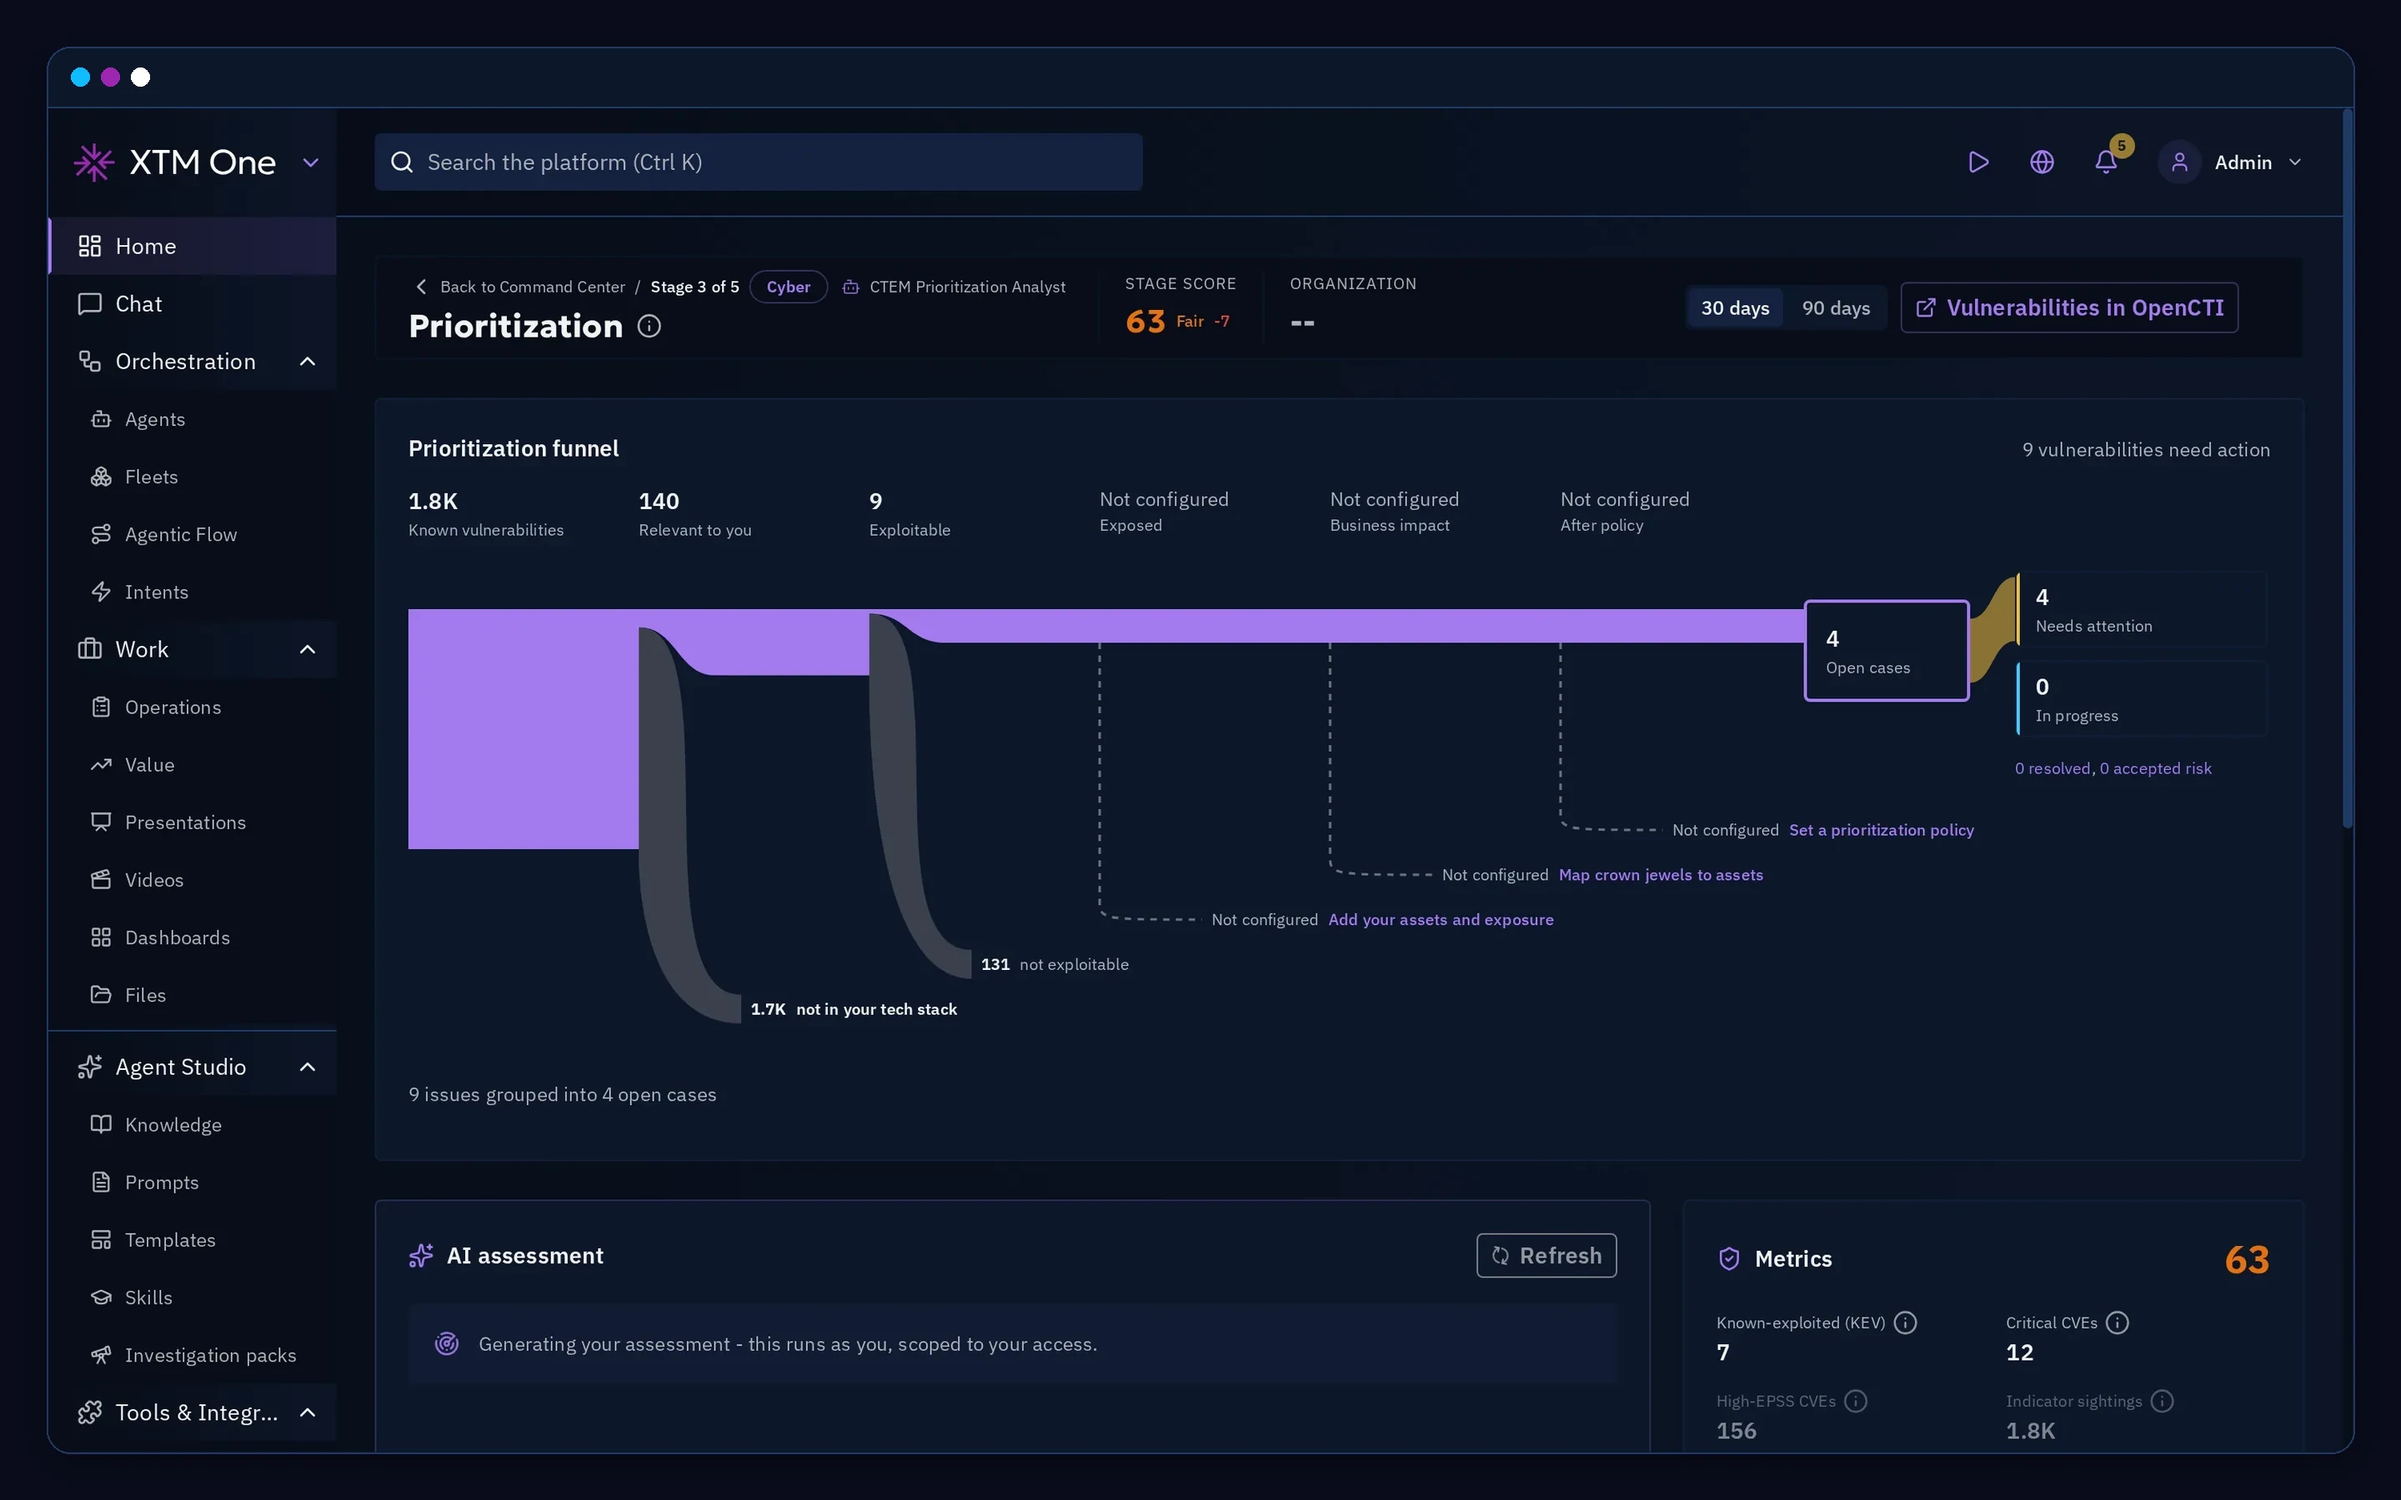
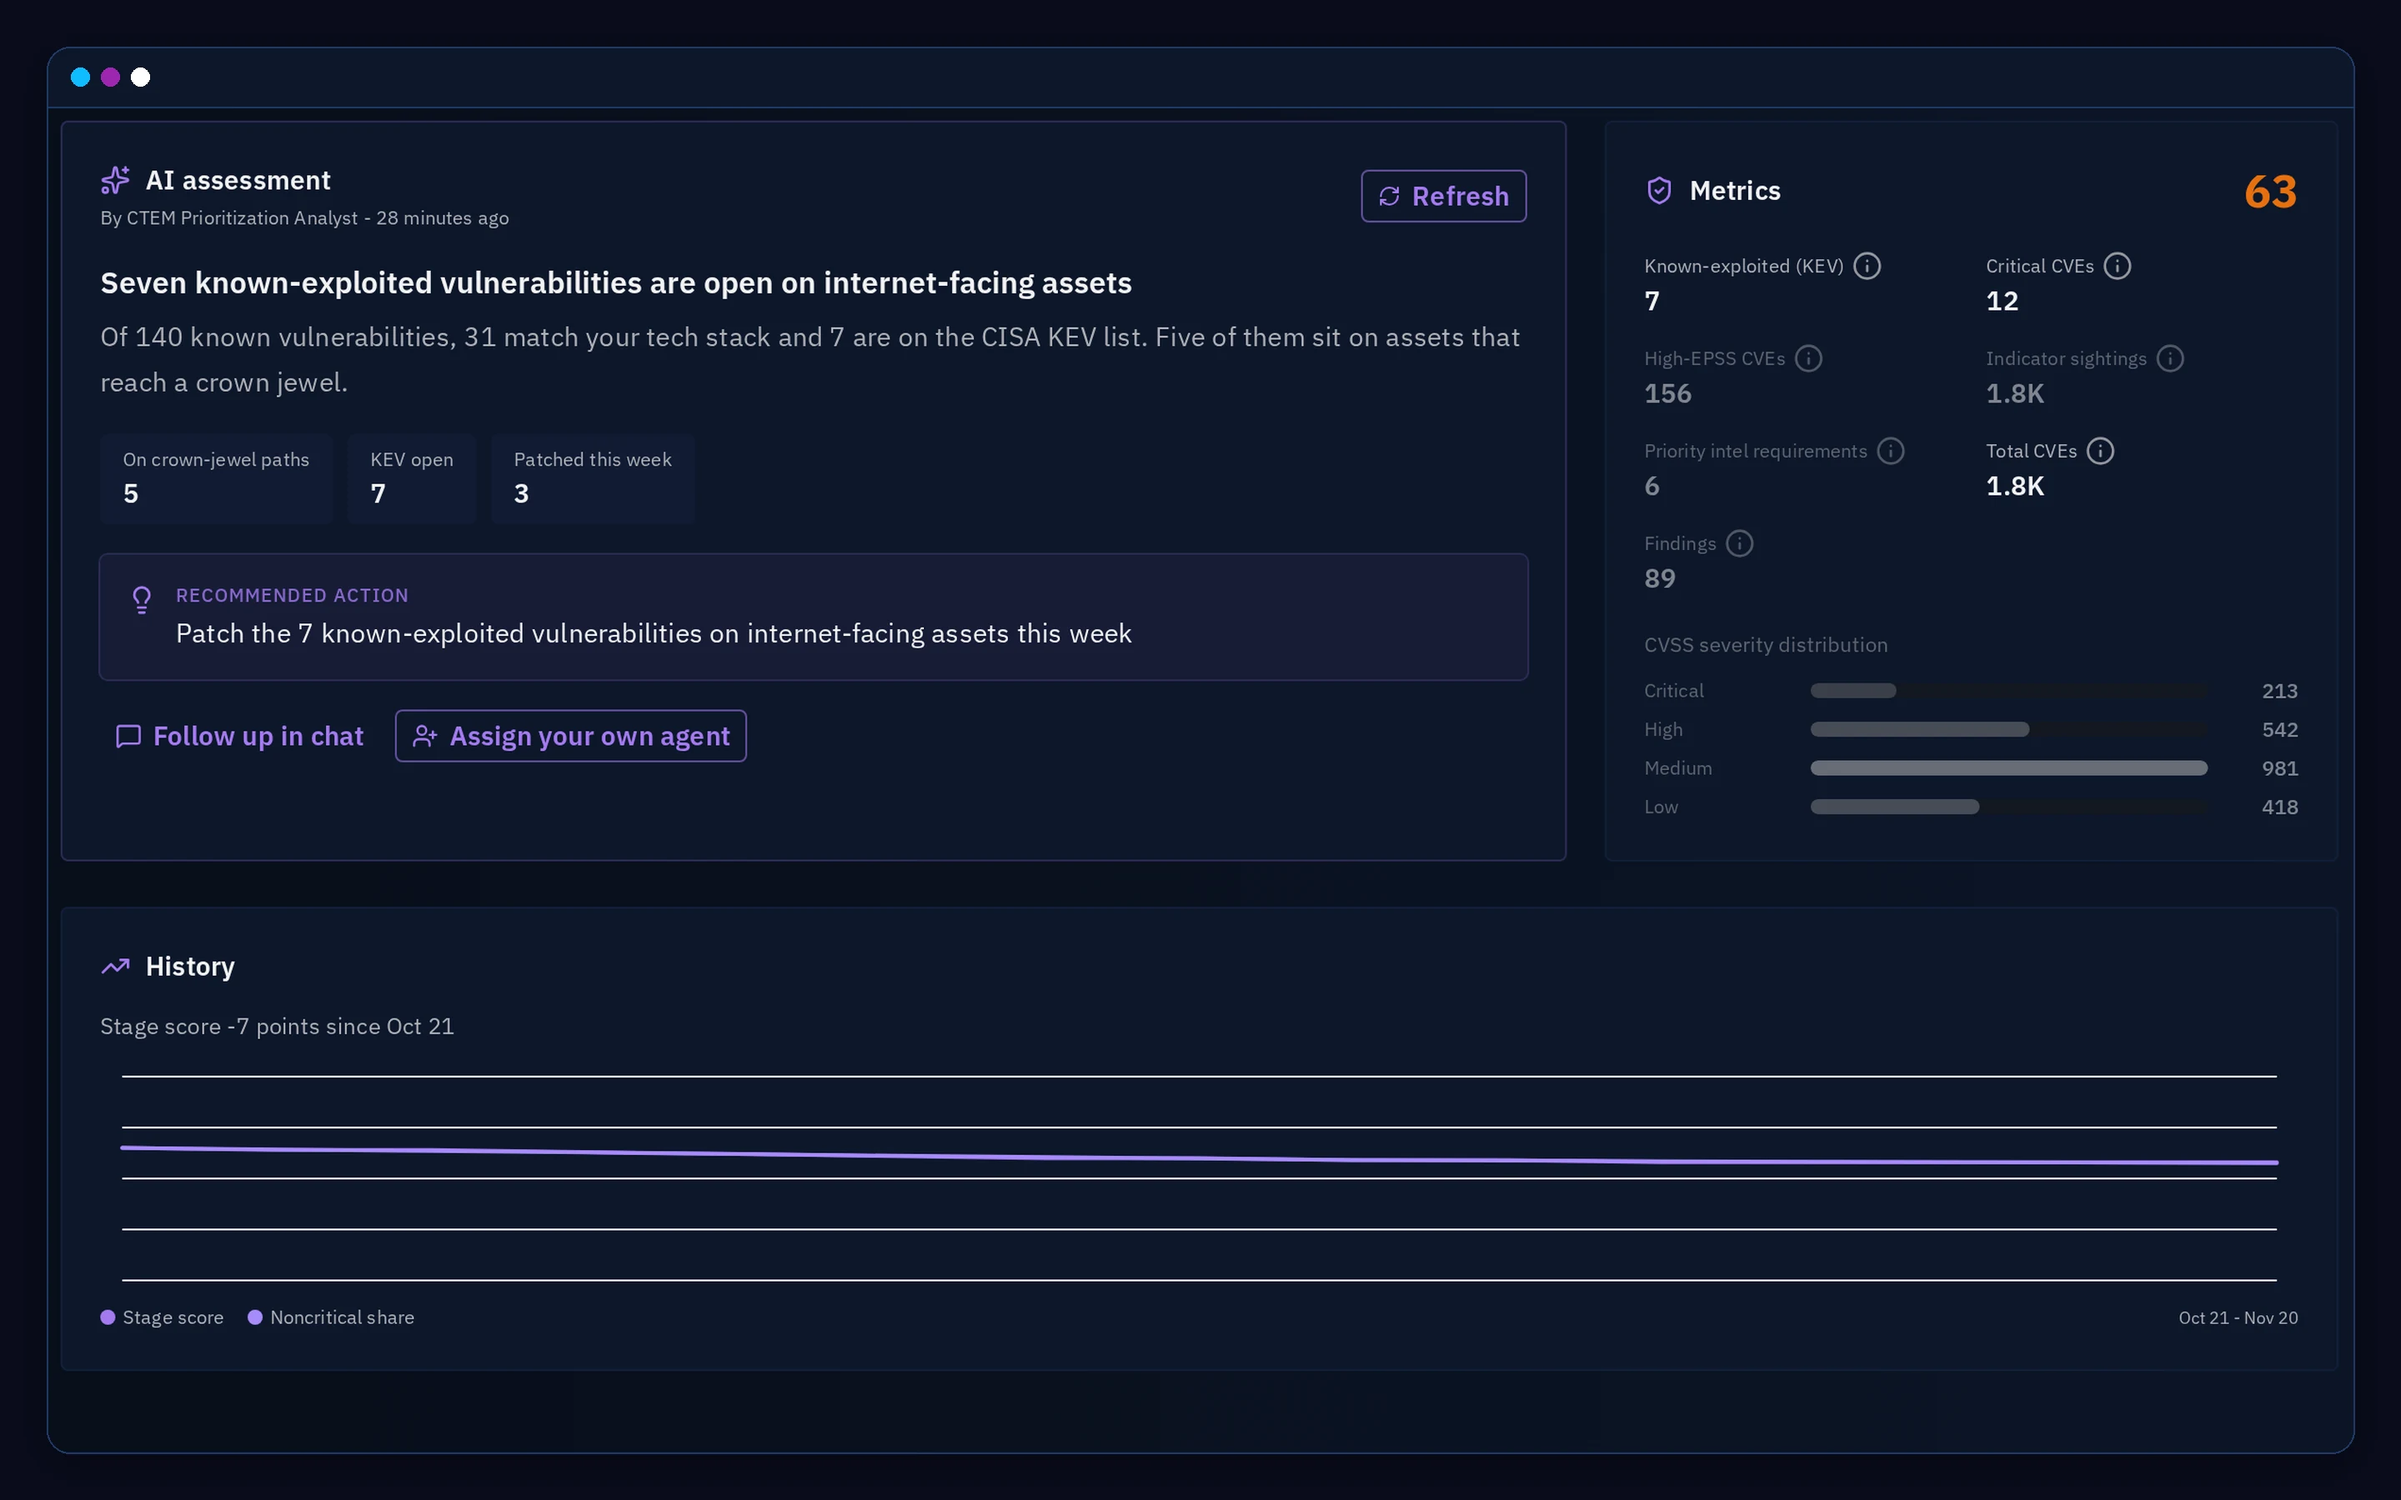
docs(readme): crop the prioritization capture to its assessment and metrics (#424)
- g2 dark and light recaptured on lab-ctem-context-complete with stage
  assessments stored: AI assessment, metrics and history, no funnel, no
  "Not configured" layer; framed by readme-kit frame.py (108 and 103 KB).
- Gallery caption and alt text follow the new subject (kit data and README).
- Remove the 12 v2 captures under .github/img/readme-*.webp that the v3
  README no longer references.

diff --git a/.github/scripts/readme-kit/readme_data/xtm_one.py b/.github/scripts/readme-kit/readme_data/xtm_one.py
@@ -51,9 +51,9 @@ DATA = {
         ("Discovery", "See which techniques of the adversaries that target you were never tested.",
          "The CTEM Discovery stage: threat techniques from OpenCTI against the techniques tested in OpenAEV, "
          "with the untested ones counted"),
-        ("Prioritization", "Go from thousands of known vulnerabilities to the few that are exploitable and open.",
-         "The CTEM Prioritization stage: a funnel from known vulnerabilities to relevant, exploitable and open "
-         "remediation cases"),
+        ("Prioritization", "Read which of thousands of known vulnerabilities are exploited and open on the assets that matter.",
+         "The CTEM Prioritization stage: the AI assessment of the open vulnerabilities and the stage metrics, "
+         "known-exploited and critical CVEs"),
         ("Remediation cases", "One case per fix, ranked, with the crown jewels and exploitation it touches.",
          "CTEM remediation cases: one row per fix with its priority, issue count, crown jewels, known "
          "exploitation and state"),

diff --git a/README.md b/README.md
@@ -73,9 +73,9 @@ Security teams drown in findings and still cannot answer the question that matte
       <picture>
         <source media="(prefers-color-scheme: dark)" srcset="./.github/img/readme/g2-dark.webp">
         <source media="(prefers-color-scheme: light)" srcset="./.github/img/readme/g2-light.webp">
-        <img alt="The CTEM Prioritization stage: a funnel from known vulnerabilities to relevant, exploitable and open remediation cases" src="./.github/img/readme/g2-light.webp" width="100%">
+        <img alt="The CTEM Prioritization stage: the AI assessment of the open vulnerabilities and the stage metrics, known-exploited and critical CVEs" src="./.github/img/readme/g2-light.webp" width="100%">
       </picture>
-      <p><b>Prioritization.</b> Go from thousands of known vulnerabilities to the few that are exploitable and open.</p>
+      <p><b>Prioritization.</b> Read which of thousands of known vulnerabilities are exploited and open on the assets that matter.</p>
     </td>
   </tr>
   <tr>
